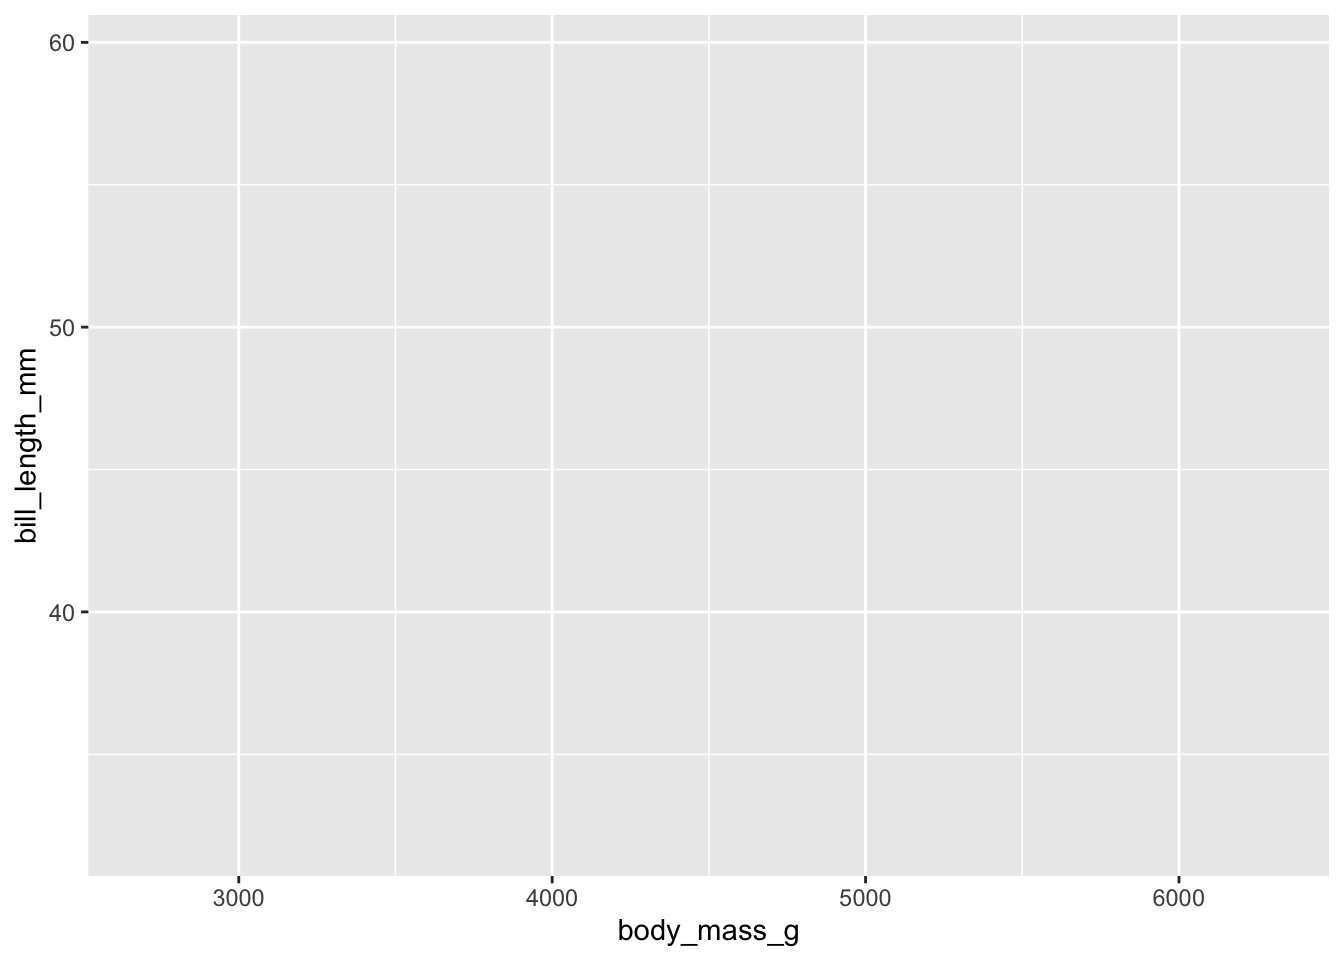
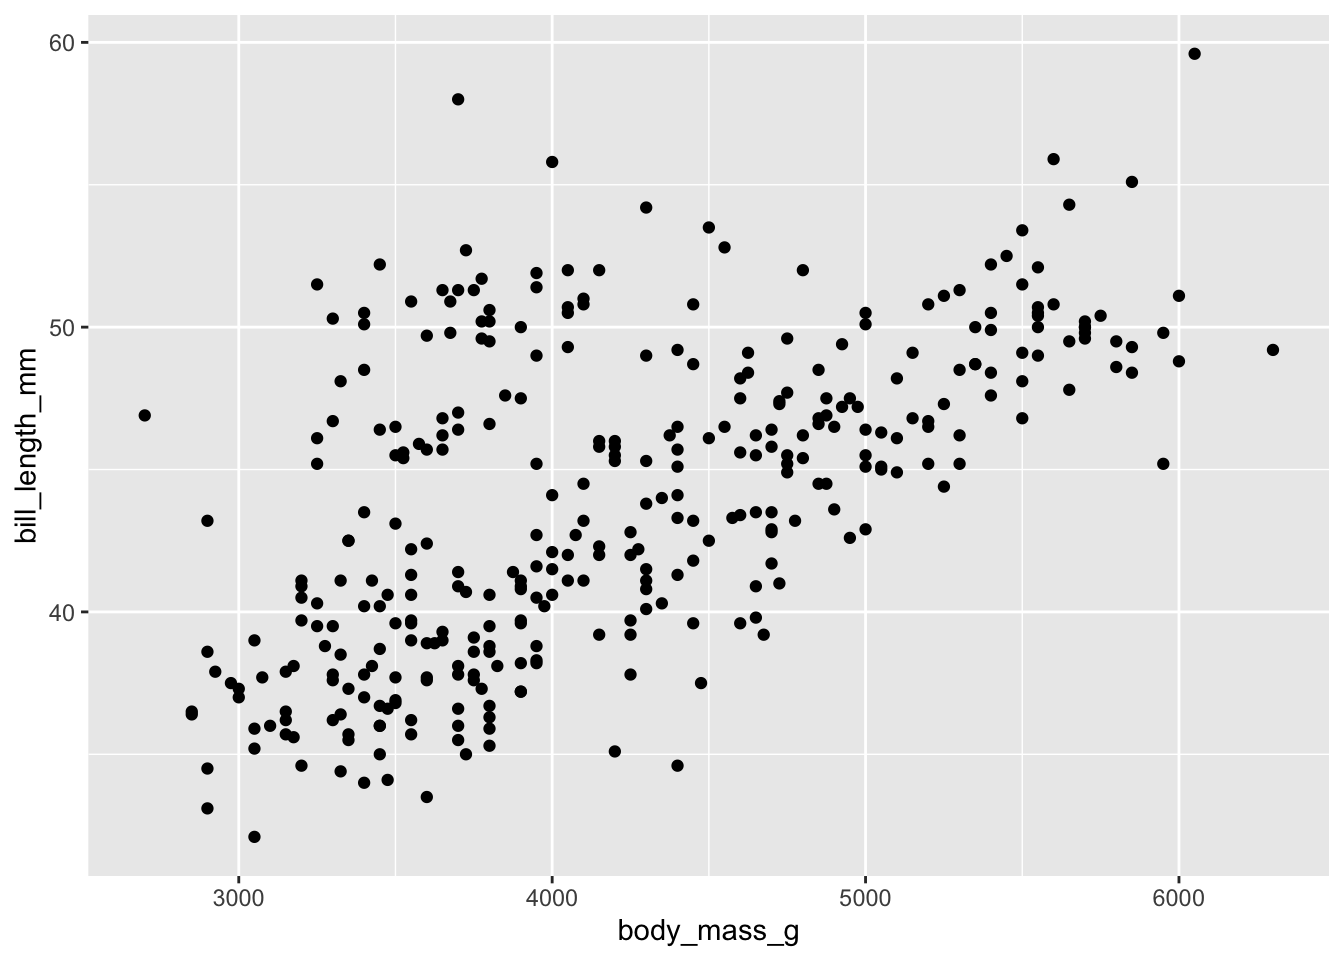
update data vis

diff --git a/docs/Data_visualisation.html b/docs/Data_visualisation.html
@@ -524,6 +524,8 @@ processed formats. Let’s take a look at it:</p>
 <h2>Wrangle the data</h2>
 <p>We will start working on the raw data and process it so that it looks
 just like the clean.</p>
+<p>Start by using the <code>janitor::clean_names()</code> function to
+remove any spaces in the column names.</p>
 <div class="sourceCode" id="cb8"><pre class="sourceCode r"><code class="sourceCode r"><span id="cb8-1"><a href="#cb8-1" aria-hidden="true" tabindex="-1"></a><span class="do">#### Wrangle data ----</span></span>
 <span id="cb8-2"><a href="#cb8-2" aria-hidden="true" tabindex="-1"></a><span class="co"># clean the column names</span></span>
 <span id="cb8-3"><a href="#cb8-3" aria-hidden="true" tabindex="-1"></a>penguins_clean_1 <span class="ot">&lt;-</span> <span class="fu">clean_names</span>(penguins_raw)</span>
@@ -534,6 +536,13 @@ just like the clean.</p>
 ## [10] &quot;culmen_length_mm&quot;  &quot;culmen_depth_mm&quot;   &quot;flipper_length_mm&quot;
 ## [13] &quot;body_mass_g&quot;       &quot;sex&quot;               &quot;delta_15_n_o_oo&quot;  
 ## [16] &quot;delta_13_c_o_oo&quot;   &quot;comments&quot;</code></pre>
+<p>We then select the columns that we’d like to work with. In the
+<code>dplyr</code> package, we have previously used the
+<code>rename()</code> function. However, we can use
+<code>select()</code> to both select the columns of interest and rename
+the columns.</p>
+<p>Here we rename the columns with <em>culmen</em> to <em>bill</em> and
+change the <em>date</em> column to <em>year</em>.</p>
 <div class="sourceCode" id="cb10"><pre class="sourceCode r"><code class="sourceCode r"><span id="cb10-1"><a href="#cb10-1" aria-hidden="true" tabindex="-1"></a><span class="co"># select columns to work on &amp; clean names</span></span>
 <span id="cb10-2"><a href="#cb10-2" aria-hidden="true" tabindex="-1"></a><span class="fu">names</span>(penguins_clean_1)</span></code></pre></div>
 <pre><code>##  [1] &quot;study_name&quot;        &quot;sample_number&quot;     &quot;species&quot;          
@@ -543,8 +552,12 @@ just like the clean.</p>
 ## [13] &quot;body_mass_g&quot;       &quot;sex&quot;               &quot;delta_15_n_o_oo&quot;  
 ## [16] &quot;delta_13_c_o_oo&quot;   &quot;comments&quot;</code></pre>
 <div class="sourceCode" id="cb12"><pre class="sourceCode r"><code class="sourceCode r"><span id="cb12-1"><a href="#cb12-1" aria-hidden="true" tabindex="-1"></a>penguins_clean_1 <span class="sc">%&gt;%</span> <span class="fu">select</span>(species, island, <span class="at">bill_length_mm =</span> culmen_length_mm, <span class="at">bill_depth_mm =</span> culmen_depth_mm, flipper_length_mm, body_mass_g, sex, <span class="at">year =</span> date_egg) <span class="ot">-&gt;</span> penguins_clean_2</span></code></pre></div>
+<p>The date column was previously stored as string. Let’s extract only
+the year using the <code>lubridate::year()</code> function.</p>
 <div class="sourceCode" id="cb13"><pre class="sourceCode r"><code class="sourceCode r"><span id="cb13-1"><a href="#cb13-1" aria-hidden="true" tabindex="-1"></a><span class="co"># select only year from dates</span></span>
 <span id="cb13-2"><a href="#cb13-2" aria-hidden="true" tabindex="-1"></a>penguins_clean_2<span class="sc">$</span>year <span class="ot">&lt;-</span> <span class="fu">year</span>(penguins_clean_2<span class="sc">$</span>year)</span></code></pre></div>
+<p>We’re getting close to the processed data. Take another look at the
+data structures:</p>
 <div class="sourceCode" id="cb14"><pre class="sourceCode r"><code class="sourceCode r"><span id="cb14-1"><a href="#cb14-1" aria-hidden="true" tabindex="-1"></a><span class="co"># check that they are the same</span></span>
 <span id="cb14-2"><a href="#cb14-2" aria-hidden="true" tabindex="-1"></a><span class="fu">str</span>(penguins)</span></code></pre></div>
 <pre><code>## tibble [344 × 8] (S3: tbl_df/tbl/data.frame)
@@ -586,10 +599,20 @@ just like the clean.</p>
 ##   ..   `Delta 13 C (o/oo)` = col_double(),
 ##   ..   Comments = col_character()
 ##   .. )</code></pre>
+<p>To clean the species column, we need to select only the first word
+from the string. To do this, we use the <code>stringr::word()</code>
+function and specify the 1st word. We also wrap this in the
+<code>as.factor()</code> function to convert the column from character
+to factor.</p>
 <div class="sourceCode" id="cb18"><pre class="sourceCode r"><code class="sourceCode r"><span id="cb18-1"><a href="#cb18-1" aria-hidden="true" tabindex="-1"></a><span class="co"># select only first name from species list and convert to factor</span></span>
 <span id="cb18-2"><a href="#cb18-2" aria-hidden="true" tabindex="-1"></a>penguins_clean_2<span class="sc">$</span>species <span class="ot">&lt;-</span> <span class="fu">as.factor</span>(<span class="fu">word</span>(penguins_clean_2<span class="sc">$</span>species, <span class="dv">1</span>))</span></code></pre></div>
+<p>Lastly, let’s convert the <em>sex</em> column values to lower case
+using the base R function <code>tolower()</code>. Again, convert this to
+a factor.</p>
 <div class="sourceCode" id="cb19"><pre class="sourceCode r"><code class="sourceCode r"><span id="cb19-1"><a href="#cb19-1" aria-hidden="true" tabindex="-1"></a><span class="co"># change sex to lower case</span></span>
 <span id="cb19-2"><a href="#cb19-2" aria-hidden="true" tabindex="-1"></a>penguins_clean_2<span class="sc">$</span>sex <span class="ot">&lt;-</span> <span class="fu">as.factor</span>(<span class="fu">tolower</span>((penguins_clean_2<span class="sc">$</span>sex)))</span></code></pre></div>
+<p>And then a final check. Save the cleaned data over the processed data
+that we loaded in earlier.</p>
 <div class="sourceCode" id="cb20"><pre class="sourceCode r"><code class="sourceCode r"><span id="cb20-1"><a href="#cb20-1" aria-hidden="true" tabindex="-1"></a><span class="co"># final check</span></span>
 <span id="cb20-2"><a href="#cb20-2" aria-hidden="true" tabindex="-1"></a><span class="fu">str</span>(penguins_clean_2)</span></code></pre></div>
 <pre><code>## tibble [344 × 8] (S3: tbl_df/tbl/data.frame)
@@ -622,35 +645,104 @@ just like the clean.</p>
 ##   ..   Comments = col_character()
 ##   .. )</code></pre>
 <div class="sourceCode" id="cb22"><pre class="sourceCode r"><code class="sourceCode r"><span id="cb22-1"><a href="#cb22-1" aria-hidden="true" tabindex="-1"></a>penguins <span class="ot">&lt;-</span> penguins_clean_2</span></code></pre></div>
+</div>
+<div id="data-visualisation" class="section level2">
+<h2>Data visualisation</h2>
+<p>Now that our data is cleaned, we can begin plotting. Let’s first look
+at the broad relationships between all of the variables in our data. We
+can simply use the base R <code>plot()</code> to explore all of the
+correlations in our data.</p>
 <div class="sourceCode" id="cb23"><pre class="sourceCode r"><code class="sourceCode r"><span id="cb23-1"><a href="#cb23-1" aria-hidden="true" tabindex="-1"></a><span class="do">#### Data visualisation ----</span></span>
 <span id="cb23-2"><a href="#cb23-2" aria-hidden="true" tabindex="-1"></a><span class="co"># correlation plot with all variables</span></span>
 <span id="cb23-3"><a href="#cb23-3" aria-hidden="true" tabindex="-1"></a><span class="fu">plot</span>(penguins)</span></code></pre></div>
 <p><img src="Data_visualisation_files/figure-html/unnamed-chunk-13-1.png" width="672" /></p>
-<div class="sourceCode" id="cb24"><pre class="sourceCode r"><code class="sourceCode r"><span id="cb24-1"><a href="#cb24-1" aria-hidden="true" tabindex="-1"></a><span class="co"># ggplot</span></span>
-<span id="cb24-2"><a href="#cb24-2" aria-hidden="true" tabindex="-1"></a><span class="fu">ggplot</span>()</span></code></pre></div>
+<p>From this plot, we can see that <strong>body mass</strong> and
+<strong>bill length</strong> look strongly correlated. Let’s use these
+two variables to build a plot.</p>
+<p>In this workshop, we will be using the <code>ggplot2</code> package
+for <em>most</em> of our data visualisation. There are several different
+R and non-R options for plotting data, so why chose
+<code>ggplot2</code>?</p>
+<ul>
+<li>It is like building lego blocks (each geom is a layer)</li>
+<li>The syntax is <em>relatively</em> simple</li>
+<li>Easy use of themes &amp; colour palettes</li>
+<li>Wide adoption (so easy to find similar queries online)</li>
+<li>Facets! (easily produce several subplots based on a factor)</li>
+<li>Combine plots seamlessly (there are several packages for this, but
+we’ll explore <code>patchwork</code>. Also look up <code>cowplot</code>
+or the <code>egg</code> package)</li>
+<li><code>gganimate()</code>: easily turn your plot into an animation
+(we don’t explore this function here, but take a look at the <a
+href="https://gganimate.com/">great examples!</a>)</li>
+<li><code>ggplot2</code> is a part of the <code>tidyverse</code> group
+of R packages. This means that it is well integrated with some of the
+other packages we have learnt so far, like <code>dplyr</code>.</li>
+</ul>
+<p>Ok, those are a few reasons. However, always do what’s easiest for
+youm whether it’s using base R functions, excel charts,
+plotnine/seaborn/matplotlib in Python or whatever else.
+<code>ggplot2</code> is just one of these options and the most important
+thing is to get the job done.</p>
+<p>The primary function we will use is <code>ggplot()</code> (don’t
+forget to remove the 2!). The core template used in <code>ggplot2</code>
+graphics requires the <code>data.frame</code>, the variables of interest
+and the type of plot you want. This is the template:</p>
+<p><code>ggplot(data = DATA, mapping = aes(VARIABLES OF INTEREST)) + geom_()</code></p>
+<p>Let’s get started, by select the dataset we want to work with:</p>
+<div class="sourceCode" id="cb24"><pre class="sourceCode r"><code class="sourceCode r"><span id="cb24-1"><a href="#cb24-1" aria-hidden="true" tabindex="-1"></a><span class="co"># chose the data</span></span>
+<span id="cb24-2"><a href="#cb24-2" aria-hidden="true" tabindex="-1"></a><span class="fu">ggplot</span>(<span class="at">data =</span> penguins)</span></code></pre></div>
 <p><img src="Data_visualisation_files/figure-html/unnamed-chunk-14-1.png" width="672" /></p>
-<div class="sourceCode" id="cb25"><pre class="sourceCode r"><code class="sourceCode r"><span id="cb25-1"><a href="#cb25-1" aria-hidden="true" tabindex="-1"></a><span class="co"># chose the data</span></span>
-<span id="cb25-2"><a href="#cb25-2" aria-hidden="true" tabindex="-1"></a><span class="fu">ggplot</span>(<span class="at">data =</span> penguins)</span></code></pre></div>
+<p>This doesn’t show us anything, because we have not yet chosen our
+variables. We then chose our variables of interest inside our mapping
+aesthetics. Here we want <code>body_mass_g</code> on the x-axis and
+<code>bill_length_g</code> on the y-axis.</p>
+<div class="sourceCode" id="cb25"><pre class="sourceCode r"><code class="sourceCode r"><span id="cb25-1"><a href="#cb25-1" aria-hidden="true" tabindex="-1"></a><span class="co"># add in mapping aesthetics</span></span>
+<span id="cb25-2"><a href="#cb25-2" aria-hidden="true" tabindex="-1"></a><span class="fu">ggplot</span>(<span class="at">data =</span> penguins, <span class="at">mapping =</span> <span class="fu">aes</span>(<span class="at">x =</span> body_mass_g, <span class="at">y =</span> bill_length_mm))</span></code></pre></div>
 <p><img src="Data_visualisation_files/figure-html/unnamed-chunk-15-1.png" width="672" /></p>
-<div class="sourceCode" id="cb26"><pre class="sourceCode r"><code class="sourceCode r"><span id="cb26-1"><a href="#cb26-1" aria-hidden="true" tabindex="-1"></a><span class="co"># add in mapping aesthetics</span></span>
-<span id="cb26-2"><a href="#cb26-2" aria-hidden="true" tabindex="-1"></a><span class="fu">ggplot</span>(<span class="at">data =</span> penguins, <span class="at">mapping =</span> <span class="fu">aes</span>(<span class="at">x =</span> body_mass_g, <span class="at">y =</span> bill_length_mm))</span></code></pre></div>
+<p>Our axis are set up! Let’s now fill the plot by choosing a
+<code>geom_()</code> function, short for <strong>geometry</strong>. We
+will use <code>geom_point()</code>, which plots a scatterplot.</p>
+<div class="sourceCode" id="cb26"><pre class="sourceCode r"><code class="sourceCode r"><span id="cb26-1"><a href="#cb26-1" aria-hidden="true" tabindex="-1"></a><span class="co"># chose a geometry to plot</span></span>
+<span id="cb26-2"><a href="#cb26-2" aria-hidden="true" tabindex="-1"></a><span class="fu">ggplot</span>(<span class="at">data =</span> penguins, <span class="at">mapping =</span> <span class="fu">aes</span>(<span class="at">x =</span> body_mass_g, <span class="at">y =</span> bill_length_mm)) <span class="sc">+</span></span>
+<span id="cb26-3"><a href="#cb26-3" aria-hidden="true" tabindex="-1"></a>  <span class="fu">geom_point</span>()</span></code></pre></div>
 <p><img src="Data_visualisation_files/figure-html/unnamed-chunk-16-1.png" width="672" /></p>
-<div class="sourceCode" id="cb27"><pre class="sourceCode r"><code class="sourceCode r"><span id="cb27-1"><a href="#cb27-1" aria-hidden="true" tabindex="-1"></a><span class="co"># chose a geometry to plot</span></span>
-<span id="cb27-2"><a href="#cb27-2" aria-hidden="true" tabindex="-1"></a><span class="fu">ggplot</span>(<span class="at">data =</span> penguins, <span class="at">mapping =</span> <span class="fu">aes</span>(<span class="at">x =</span> body_mass_g, <span class="at">y =</span> bill_length_mm)) <span class="sc">+</span></span>
-<span id="cb27-3"><a href="#cb27-3" aria-hidden="true" tabindex="-1"></a>  <span class="fu">geom_point</span>()</span></code></pre></div>
+<p>There’s your first <code>ggplot()</code>! However, there are several
+options to start customising it to our liking, so let’s explore those.
+Another option, is the place the <code>data =</code> and
+<code>mapping =</code> arguments within the <code>geom_()</code>.</p>
+<div class="sourceCode" id="cb27"><pre class="sourceCode r"><code class="sourceCode r"><span id="cb27-1"><a href="#cb27-1" aria-hidden="true" tabindex="-1"></a><span class="co"># add the data and mapping arguments to the geom</span></span>
+<span id="cb27-2"><a href="#cb27-2" aria-hidden="true" tabindex="-1"></a><span class="fu">ggplot</span>() <span class="sc">+</span></span>
+<span id="cb27-3"><a href="#cb27-3" aria-hidden="true" tabindex="-1"></a>  <span class="fu">geom_point</span>(<span class="at">data =</span> penguins, <span class="at">mapping =</span> <span class="fu">aes</span>(<span class="at">x =</span> body_mass_g, <span class="at">y =</span> bill_length_mm))</span></code></pre></div>
 <p><img src="Data_visualisation_files/figure-html/unnamed-chunk-17-1.png" width="672" /></p>
-<div class="sourceCode" id="cb28"><pre class="sourceCode r"><code class="sourceCode r"><span id="cb28-1"><a href="#cb28-1" aria-hidden="true" tabindex="-1"></a><span class="co"># add the data and mapping arguments to the geom</span></span>
-<span id="cb28-2"><a href="#cb28-2" aria-hidden="true" tabindex="-1"></a><span class="fu">ggplot</span>() <span class="sc">+</span></span>
-<span id="cb28-3"><a href="#cb28-3" aria-hidden="true" tabindex="-1"></a>  <span class="fu">geom_point</span>(<span class="at">data =</span> penguins, <span class="at">mapping =</span> <span class="fu">aes</span>(<span class="at">x =</span> body_mass_g, <span class="at">y =</span> bill_length_mm))</span></code></pre></div>
+<p>We can also do a mix of the two, as shown below. Note that if our
+arguments are in the correct place, we can also remove the calls to
+<code>data =</code> and <code>mapping =</code>. This helps to shorten
+and clean up our code:</p>
+<div class="sourceCode" id="cb28"><pre class="sourceCode r"><code class="sourceCode r"><span id="cb28-1"><a href="#cb28-1" aria-hidden="true" tabindex="-1"></a><span class="co"># keep the data in ggplot() and mapping aesthetics in the geom_</span></span>
+<span id="cb28-2"><a href="#cb28-2" aria-hidden="true" tabindex="-1"></a><span class="fu">ggplot</span>(penguins) <span class="sc">+</span></span>
+<span id="cb28-3"><a href="#cb28-3" aria-hidden="true" tabindex="-1"></a>  <span class="fu">geom_point</span>(<span class="fu">aes</span>(body_mass_g, bill_length_mm, <span class="at">col =</span> species))</span></code></pre></div>
 <p><img src="Data_visualisation_files/figure-html/unnamed-chunk-18-1.png" width="672" /></p>
+<p>Let’s now add a 3rd variable <code>species</code> as the
+<strong>colour</strong> using <code>col =</code>.</p>
 <div class="sourceCode" id="cb29"><pre class="sourceCode r"><code class="sourceCode r"><span id="cb29-1"><a href="#cb29-1" aria-hidden="true" tabindex="-1"></a><span class="co"># add in a 3rd variable as colour</span></span>
 <span id="cb29-2"><a href="#cb29-2" aria-hidden="true" tabindex="-1"></a><span class="fu">ggplot</span>(penguins) <span class="sc">+</span></span>
 <span id="cb29-3"><a href="#cb29-3" aria-hidden="true" tabindex="-1"></a>  <span class="fu">geom_point</span>(<span class="fu">aes</span>(body_mass_g, bill_length_mm, <span class="at">col =</span> species))</span></code></pre></div>
 <p><img src="Data_visualisation_files/figure-html/unnamed-chunk-19-1.png" width="672" /></p>
+<p>Notice that <code>ggplot()</code> automatically adds in a legend! We
+can double up, and also change the shape of each point based on the
+<code>species</code> using <code>shape =</code>.</p>
 <div class="sourceCode" id="cb30"><pre class="sourceCode r"><code class="sourceCode r"><span id="cb30-1"><a href="#cb30-1" aria-hidden="true" tabindex="-1"></a><span class="co"># add in a 3rd variable as colour and shape</span></span>
 <span id="cb30-2"><a href="#cb30-2" aria-hidden="true" tabindex="-1"></a><span class="fu">ggplot</span>(penguins) <span class="sc">+</span></span>
 <span id="cb30-3"><a href="#cb30-3" aria-hidden="true" tabindex="-1"></a>  <span class="fu">geom_point</span>(<span class="fu">aes</span>(body_mass_g, bill_length_mm, <span class="at">col =</span> species, <span class="at">shape =</span> species))</span></code></pre></div>
 <p><img src="Data_visualisation_files/figure-html/unnamed-chunk-20-1.png" width="672" /></p>
+<p>Note that these two aesthetics are placed within the same mapping
+aesthetics as the x and the y variables. This is <strong>very
+important</strong>. If we placed them outside of the <code>aes()</code>
+call, it would not work. Anything outside of the <code>aes()</code> call
+will be applied to all points! See the example below on changing the
+opacity using <code>alpha =</code>. Changing the opacity helps to show
+points, which may be overlapping with others.</p>
 <div class="sourceCode" id="cb31"><pre class="sourceCode r"><code class="sourceCode r"><span id="cb31-1"><a href="#cb31-1" aria-hidden="true" tabindex="-1"></a><span class="co"># change the opacity of the points</span></span>
 <span id="cb31-2"><a href="#cb31-2" aria-hidden="true" tabindex="-1"></a><span class="fu">ggplot</span>(penguins) <span class="sc">+</span></span>
 <span id="cb31-3"><a href="#cb31-3" aria-hidden="true" tabindex="-1"></a>  <span class="fu">geom_point</span>(<span class="fu">aes</span>(body_mass_g, bill_length_mm, <span class="at">col =</span> species, <span class="at">shape =</span> species), <span class="at">alpha =</span> <span class="fl">0.8</span>)</span></code></pre></div>
